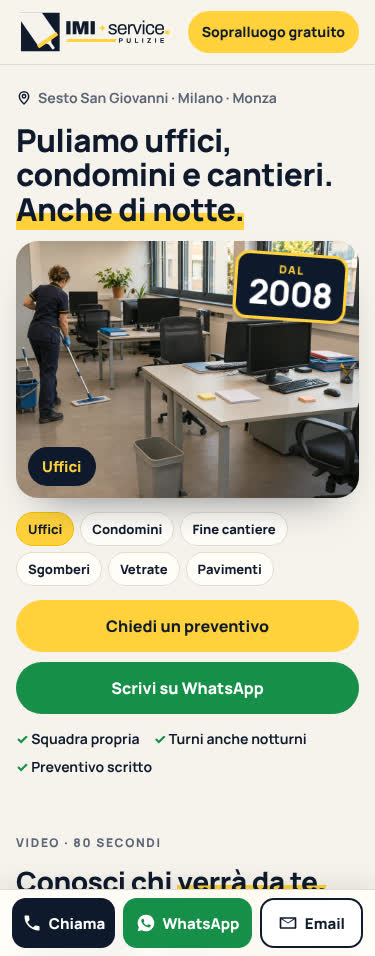
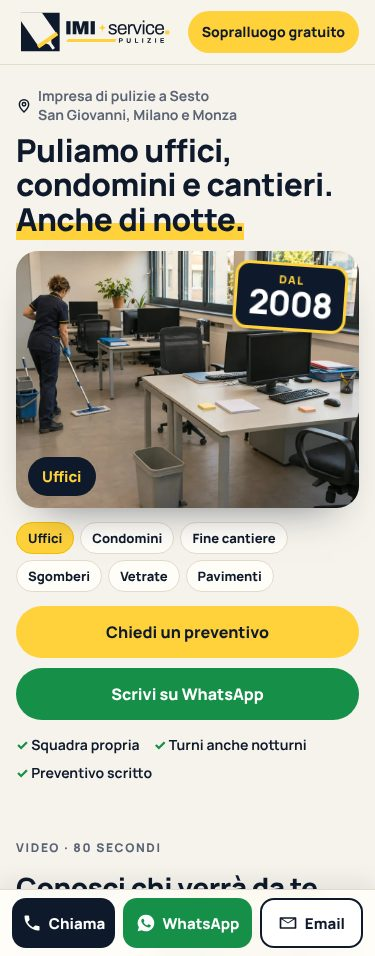
SEO meta: title, description, H1 con keyword e città, H2 senza "Scorri"
- title: Impresa di pulizie a Sesto San Giovanni | IMI Service (53 car.)
- description 158 car., og:title/og:description allineati, og:site_name
- H1: la riga sopra il titolo diventa parte dell'H1 (Impresa di pulizie a Sesto San Giovanni, Milano e Monza)
- H2 di servizi, metodo e zone descrivono il contenuto invece dell'istruzione "Scorri"
- immagini della prima schermata per l'apertura rifatte con il nuovo titolo

Claude-Session: https://claude.ai/code/session_01NCWZ2HutzFLhFFi9Pu68i2

diff --git a/index.html b/index.html
@@ -3,8 +3,8 @@
 <head>
   <meta charset="utf-8">
   <meta name="viewport" content="width=device-width, initial-scale=1">
-  <title>IMI Service | Pulizie e sanificazioni a Milano, Monza e Sesto San Giovanni</title>
-  <meta name="description" content="Impresa di pulizie a Sesto San Giovanni: uffici, condomini, post-ristrutturazione, sgomberi, vetrate, moquette e trattamento pavimenti. Milano, Monza e provincia. Sopralluogo gratuito e preventivo rapido.">
+  <title>Impresa di pulizie a Sesto San Giovanni | IMI Service</title>
+  <meta name="description" content="Impresa di pulizie a Sesto San Giovanni dal 2008: uffici, condomini, fine cantiere, sgomberi e vetrate a Milano e Monza. Anche di notte. Sopralluogo gratuito.">
   <meta name="theme-color" content="#0e1a2b">
   <link rel="canonical" href="https://imiservicepulizie.it/">
   <link rel="icon" href="assets/img/logo/simbolo.svg" type="image/svg+xml">
@@ -17,8 +17,9 @@
 
   <meta property="og:type" content="website">
   <meta property="og:locale" content="it_IT">
-  <meta property="og:title" content="IMI Service | Pulizie e sanificazioni professionali a Milano">
-  <meta property="og:description" content="Uffici, condomini, fine cantiere e trattamenti specialistici. Sopralluogo gratuito e preventivo rapido.">
+  <meta property="og:title" content="Impresa di pulizie a Sesto San Giovanni | IMI Service">
+  <meta property="og:description" content="Impresa di pulizie a Sesto San Giovanni dal 2008: uffici, condomini, fine cantiere, sgomberi e vetrate a Milano e Monza. Anche di notte. Sopralluogo gratuito.">
+  <meta property="og:site_name" content="IMI Service">
   <meta property="og:url" content="https://imiservicepulizie.it/">
 
   <script type="application/ld+json">
@@ -120,8 +121,9 @@ section { scroll-margin-top: 72px; }
 .hero h1 { font-size: clamp(31px, 8.4vw, 42px); }
 .stage { position: relative; border-radius: 22px; overflow: hidden; aspect-ratio: 4 / 3; max-width: 100%; background: var(--line); box-shadow: 0 22px 40px -26px rgba(14,26,43,.6); }
 .stage canvas { position: absolute; inset: 0; width: 100%; height: 100%; display: block; }
-.hero .city { display: flex; align-items: center; gap: 6px; font-size: 14px; font-weight: 700; color: var(--muted); }
-.hero .city svg { width: 16px; height: 16px; color: var(--navy); flex: none; }
+.hero h1 .city { display: flex; align-items: center; gap: 6px; font-size: 14px; font-weight: 700; line-height: 1.35; letter-spacing: 0; color: var(--muted); margin-bottom: 8px; }
+.hero h1 .big { display: block; }
+.hero h1 .city svg { width: 16px; height: 16px; color: var(--navy); flex: none; }
 /* timbro "Dal 2008" sulla foto */
 .stage .stamp { position: absolute; right: 12px; top: 12px; z-index: 2; border: 3px solid var(--yellow); background: var(--navy); color: #fff; border-radius: 14px; padding: 7px 12px 8px; text-align: center; transform: rotate(4deg); box-shadow: 0 10px 20px -10px rgba(0,0,0,.6); }
 .stage .stamp small { display: block; font-size: 11px; font-weight: 800; letter-spacing: .14em; text-transform: uppercase; color: var(--yellow); line-height: 1.2; }
@@ -385,8 +387,7 @@ section { scroll-margin-top: 72px; }
 <main id="contenuto">
 <section class="hero">
   <div class="wrap">
-    <p class="city"><svg viewBox="0 0 24 24" aria-hidden="true" fill="none" stroke="currentColor" stroke-width="2.2"><path d="M12 21s-7-6.2-7-11.5A7 7 0 0 1 19 9.5C19 14.8 12 21 12 21z"/><circle cx="12" cy="9.5" r="2.6"/></svg>Sesto San Giovanni · Milano · Monza</p>
-    <h1>Puliamo uffici, condomini e cantieri. <span class="hl">Anche di notte.</span></h1>
+    <h1><span class="city"><svg viewBox="0 0 24 24" aria-hidden="true" fill="none" stroke="currentColor" stroke-width="2.2"><path d="M12 21s-7-6.2-7-11.5A7 7 0 0 1 19 9.5C19 14.8 12 21 12 21z"/><circle cx="12" cy="9.5" r="2.6"/></svg>Impresa di pulizie a Sesto San Giovanni, Milano e Monza</span> <span class="big">Puliamo uffici, condomini e cantieri. <span class="hl">Anche di notte.</span></span></h1>
     <div class="stage" id="stage"><canvas></canvas><span class="stamp"><small>Dal</small><b>2008</b></span><span class="now" id="now"><b>Uffici</b></span></div>
     <div class="dots" id="dots"></div>
     <div class="ctas">
@@ -431,7 +432,7 @@ section { scroll-margin-top: 72px; }
 <section class="sec" id="servizi">
   <div class="wrap">
     <p class="kicker">Servizi</p>
-    <h2>Cosa devi far pulire? <span class="hl">Scorri e guarda il prima e il dopo.</span></h2>
+    <h2>Cosa devi far pulire? <span class="hl">Guarda il prima e il dopo.</span></h2>
   </div>
 </section>
 <div id="services">
@@ -479,7 +480,7 @@ section { scroll-margin-top: 72px; }
 <section class="sec" id="metodo">
   <div class="wrap">
     <p class="kicker">Come lavoriamo</p>
-    <h2>Quattro passi<span class="m-only">. <span class="hl">Scorri.</span></span><span class="d-only">, <span class="hl">un lavoro fatto bene.</span></span></h2>
+    <h2>Quattro passi, <span class="hl">un lavoro fatto bene.</span></h2>
     <div class="car" id="car" tabindex="0" aria-label="I quattro passi, scorri di lato">
       <div class="card"><svg viewBox="0 0 24 24" aria-hidden="true" fill="none" stroke="currentColor" stroke-width="1.8" stroke-linecap="round" stroke-linejoin="round"><path d="M12 2.5a9.5 9.5 0 0 0-8.2 14.3L2.5 21.5l4.8-1.3A9.5 9.5 0 1 0 12 2.5z"/></svg><b>Ci scrivi o ci chiami</b><span>Su WhatsApp puoi mandarci anche le foto degli ambienti.</span><em aria-hidden="true">1</em></div>
       <div class="card"><svg viewBox="0 0 24 24" aria-hidden="true" fill="none" stroke="currentColor" stroke-width="1.8" stroke-linecap="round" stroke-linejoin="round"><path d="M12 21s-7-6.2-7-11.5A7 7 0 0 1 19 9.5C19 14.8 12 21 12 21z"/><circle cx="12" cy="9.5" r="2.8"/></svg><b>Sopralluogo gratuito</b><span>Veniamo a vedere di persona, senza impegno.</span><em aria-hidden="true">2</em></div>
@@ -493,7 +494,7 @@ section { scroll-margin-top: 72px; }
 <section class="sec" id="zone">
   <div class="wrap">
     <p class="kicker">Zone</p>
-    <h2>Partiamo da Sesto. <span class="hl">Scorri e vedi dove arriviamo.</span></h2>
+    <h2>Partiamo da Sesto <span class="hl">e arriviamo fino a Milano e Monza.</span></h2>
     <div class="road" id="road">
       <svg viewBox="0 0 100 125" aria-hidden="true">
         <path id="rpath" d="M50 8 C 90 18, 92 40, 55 48 S 10 62, 30 82 S 85 98, 60 118" fill="none" stroke="#E3DCCD" stroke-width="7" stroke-linecap="round"/>
